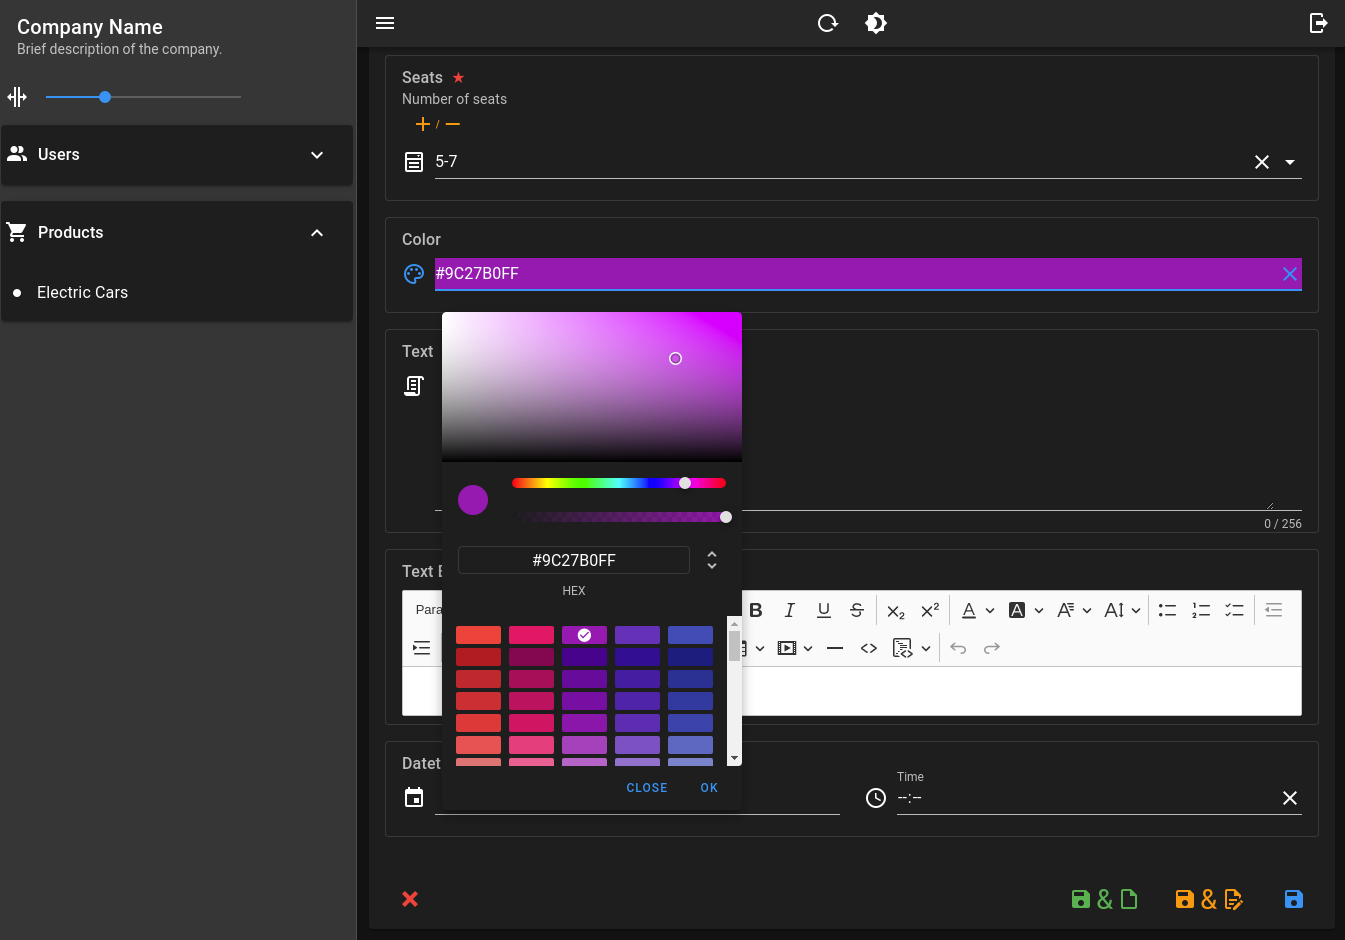
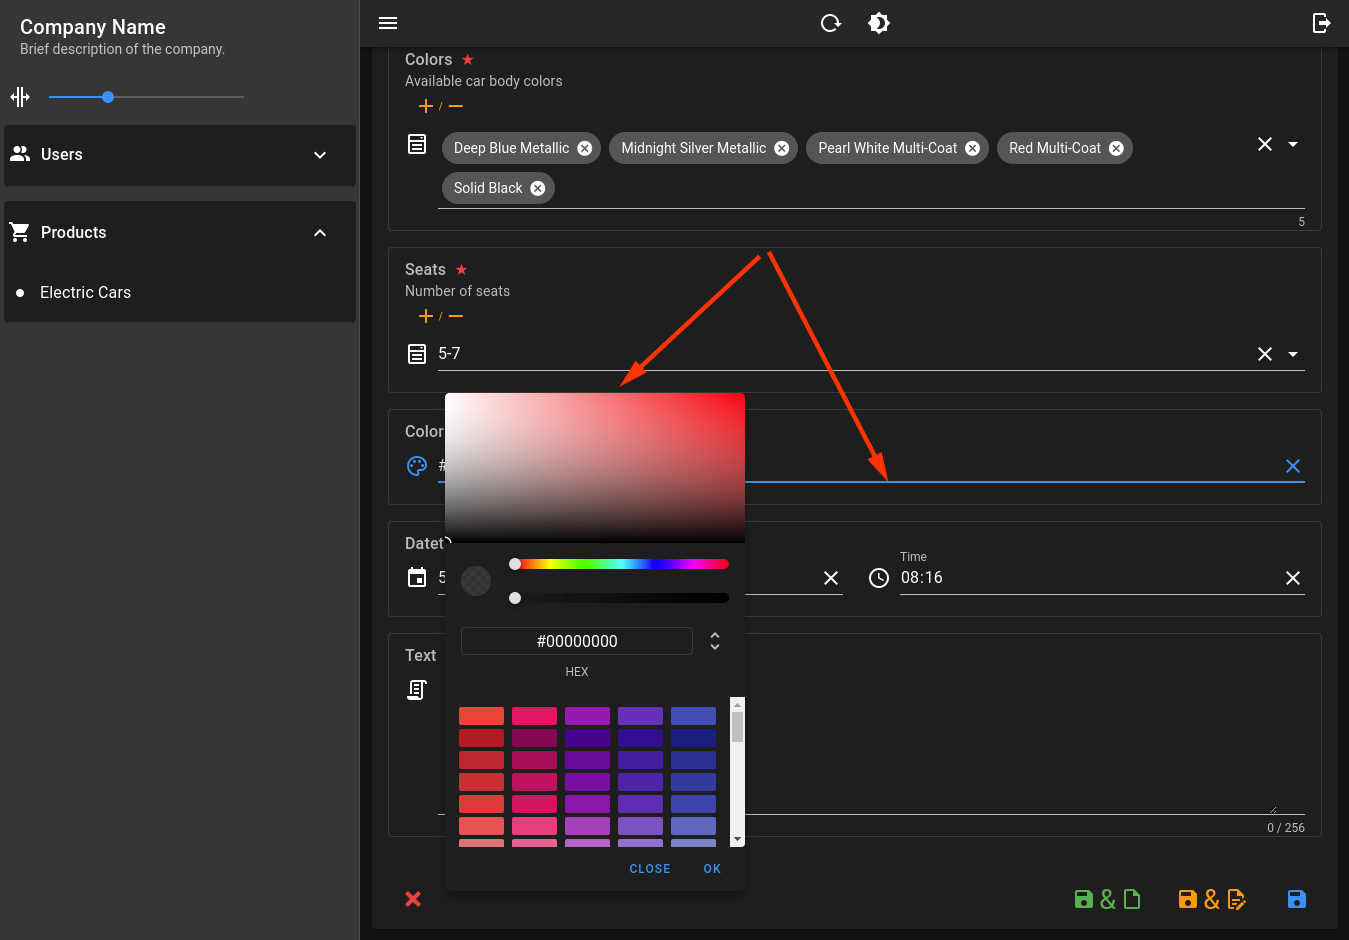
Update

diff --git a/src/models/services/products/electric_cars.rs b/src/models/services/products/electric_cars.rs
@@ -117,14 +117,16 @@ pub struct ElectricCar {
     pub color: Option<String>,
     //
     #[serde(default)]
+    #[field_attrs(widget = "inputDateTime", label = "Datetime")]
+    pub datetime: Option<String>,
+    //
+    #[serde(default)]
     #[field_attrs(widget = "textArea", label = "Text")]
     pub textarea: Option<String>,
     //
+    /*
     #[serde(default)]
     #[field_attrs(widget = "textArea", label = "Text Editor", css_classes = "ckeditor")]
     pub text_editor: Option<String>,
-    //
-    #[serde(default)]
-    #[field_attrs(widget = "inputDateTime", label = "Datetime")]
-    pub datetime: Option<String>,
+    */
 }
